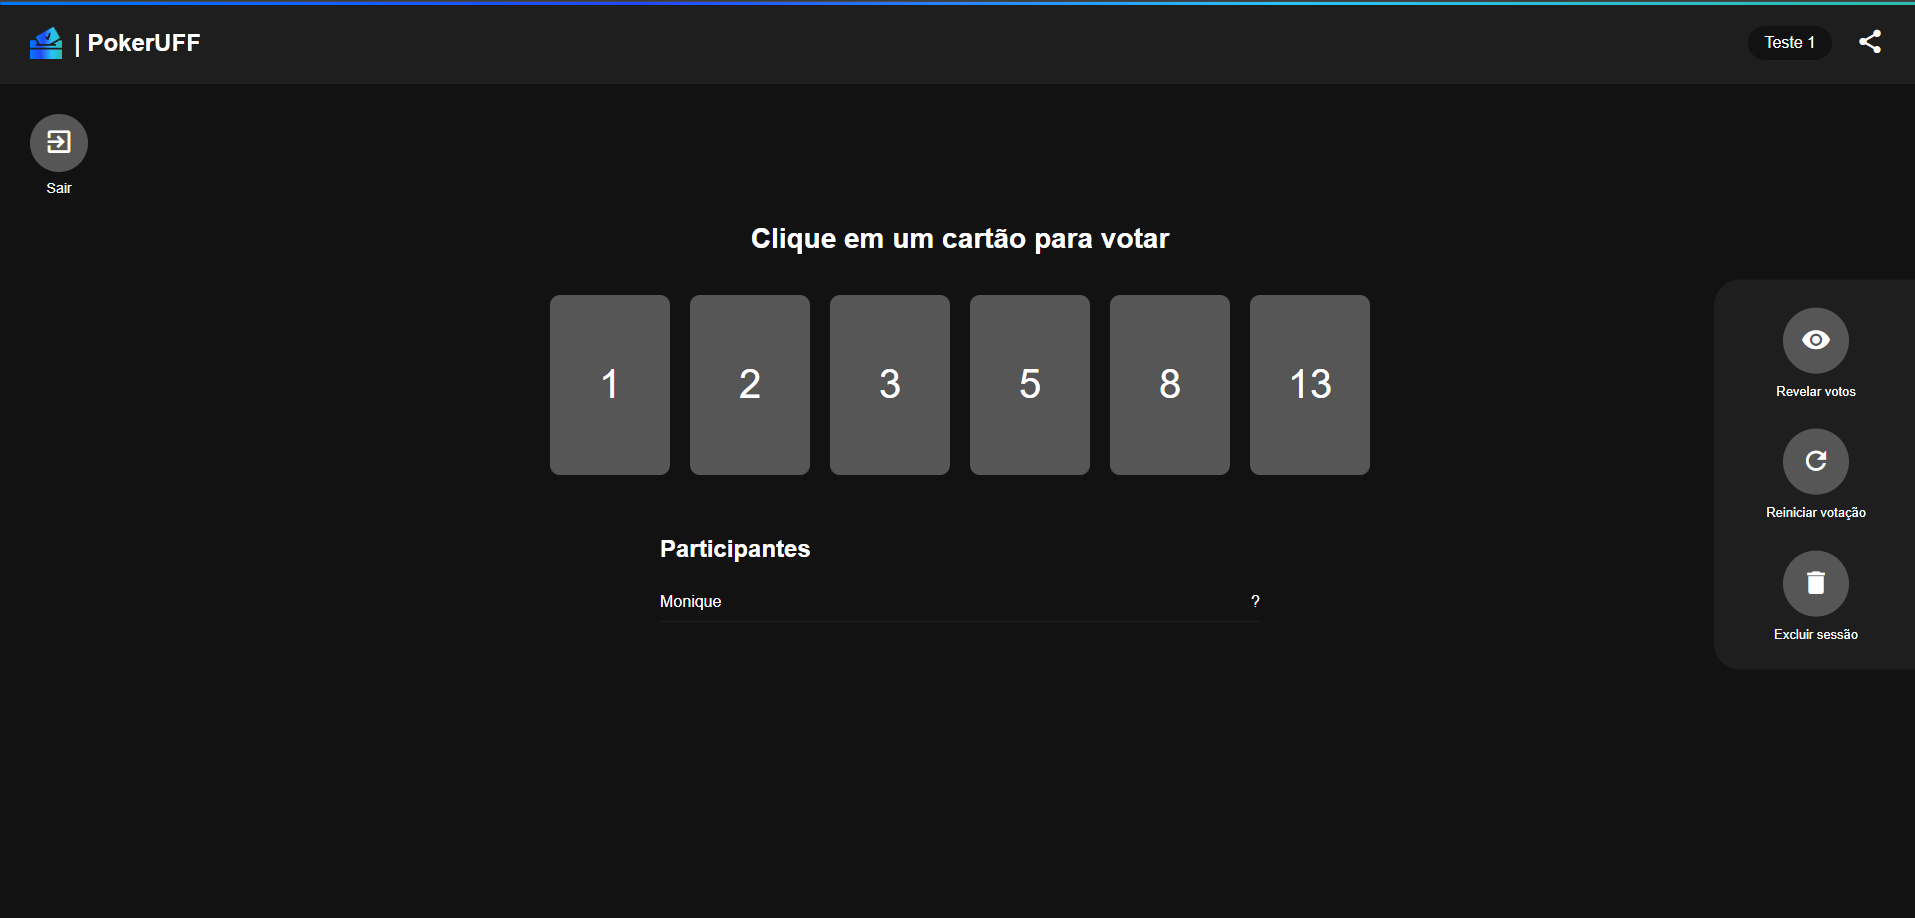
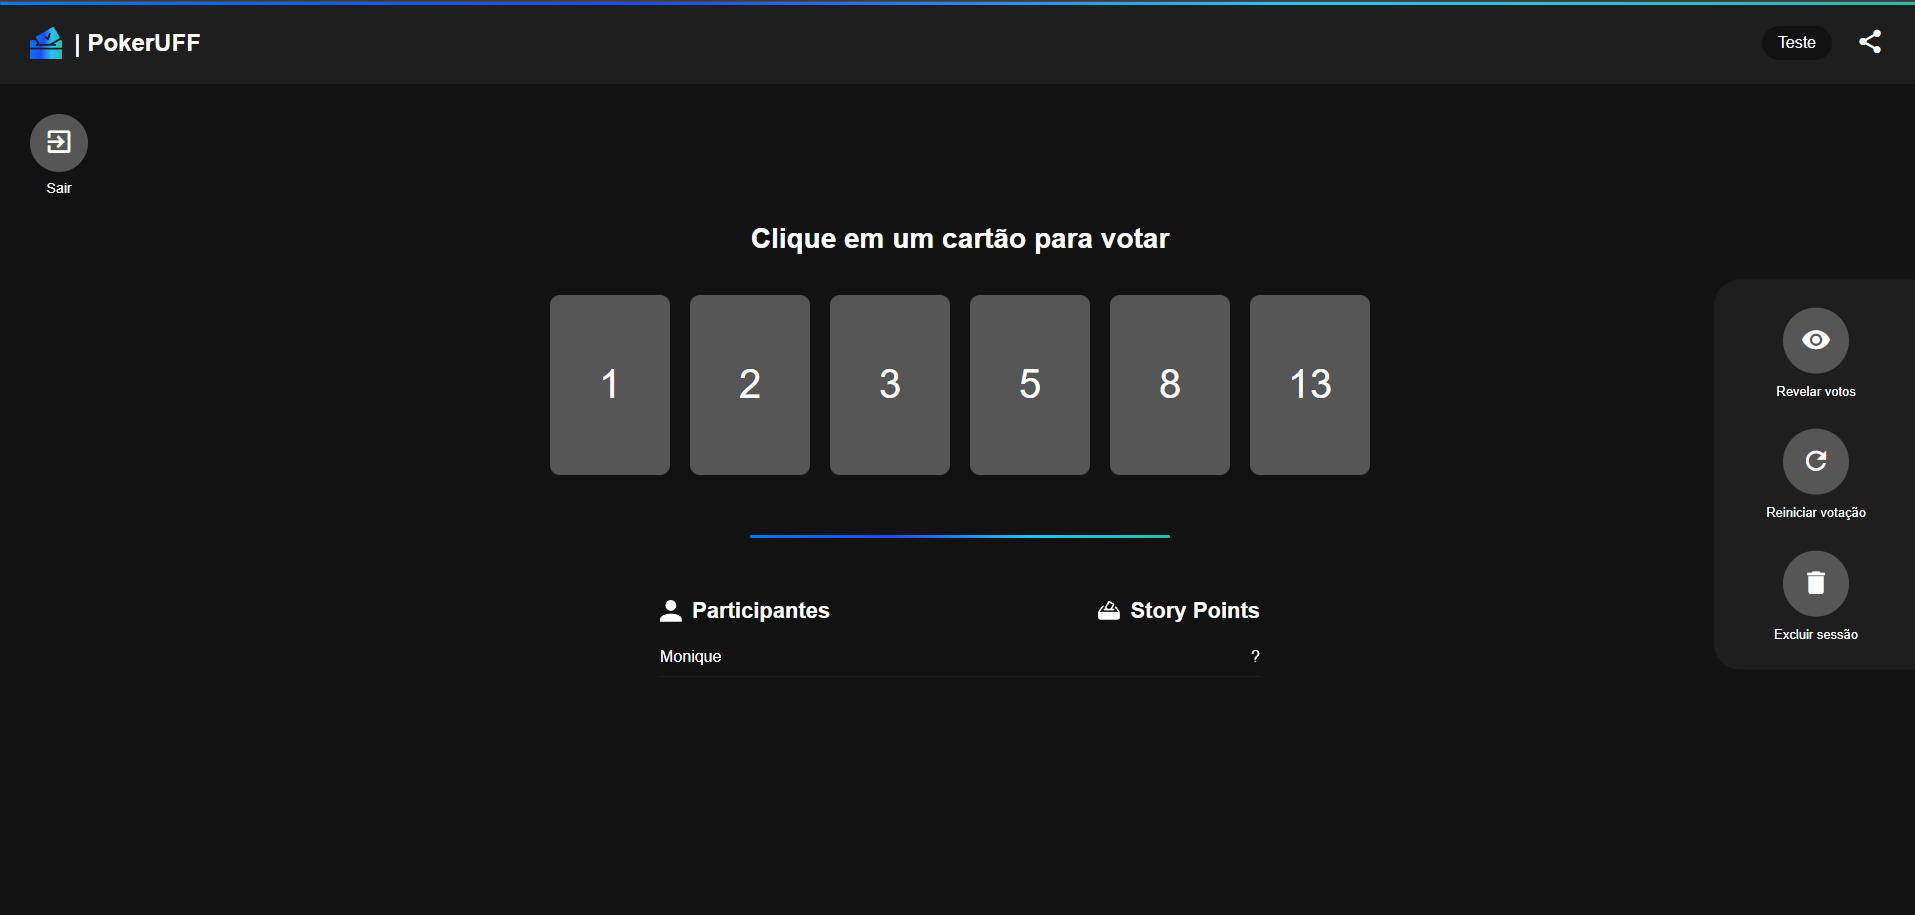
feat: melhorias ux

diff --git a/frontend/vue-project/src/views/SessionView.vue b/frontend/vue-project/src/views/SessionView.vue
@@ -58,20 +58,64 @@
           Sair
         </span>
       </div>
-      <h1 class="title">Clique em um cartão para votar</h1>
-      <div class="cards">
+      <h1
+        v-if="!state.revealed"
+        class="title"
+      >
+        Clique em um cartão para votar
+      </h1>
+      <div
+        v-if="!state.revealed"
+        class="cards"
+      >
         <div
           v-for="value in cards"
           :key="value"
           class="card"
+          :class="{ 'card-selected': selectedCard === value }"
           @click="vote(value)"
         >
           {{ value }}
         </div>
       </div>
 
+      <div
+        v-else
+        class="results-panel"
+      >
+        <h1 class="results-title">Resultado da votação</h1>
+        <div class="results-stats">
+          <img
+            src="@/assets/img/logo-white.svg"
+            alt=""
+            class="results-icon"
+          />
+          Média: {{ voteAverage }}  •  Mediana: {{ voteMedian }}
+        </div>
+      </div>
+
+      <Divider class="content-divider" />
+
       <div class="participants">
-        <h2>Participantes</h2>
+        <div class="section-header">
+          <h2 class="section-title">
+            <img
+              src="@/assets/img/user-icon.svg"
+              alt=""
+              class="section-icon"
+            />
+            Participantes
+          </h2>
+
+          <h2 class="section-title story-points-title">
+            <img
+              src="@/assets/img/story-point-icon.svg"
+              alt=""
+              class="section-icon"
+            />
+            Story Points
+          </h2>
+        </div>
         <div
           v-for="p in state.participants"
           :key="p"
@@ -100,7 +144,7 @@
 </template>
 
 <script setup>
-import { ref, onMounted, onUnmounted } from 'vue'
+import { ref, computed, onMounted, onUnmounted } from 'vue'
 import { useRoute, useRouter } from 'vue-router'
 import Divider from '@/components/Divider.vue'
 import SessionCodeModal from '@/components/SessionCodeModal.vue'
@@ -126,11 +170,48 @@ const sessionName = ref('Sessão')
 const isAdmin = ref(false)
 
 const cards = [1, 2, 3, 5, 8, 13]
+const selectedCard = ref(null)
 
 const showCodeModal = ref(false)
 const sessionCode = ref('')
 const showUserNameModal = ref(false)
 const copied = ref(false)
+
+function getVoteValues() {
+  return Object.values(state.value.votes ?? {})
+    .filter((value) => typeof value === 'number')
+}
+
+function formatNumber(value) {
+  return Number.isInteger(value)
+    ? String(value)
+    : value.toFixed(1).replace('.', ',')
+}
+
+function calculateAverage(values) {
+  if (!values.length) return '-'
+
+  const total = values.reduce((sum, value) => sum + value, 0)
+  return formatNumber(total / values.length)
+}
+
+function calculateMedian(values) {
+  if (!values.length) return '-'
+
+  const sortedValues = [...values].sort((a, b) => a - b)
+  const middleIndex = Math.floor(sortedValues.length / 2)
+
+  if (sortedValues.length % 2 === 1) {
+    return formatNumber(sortedValues[middleIndex])
+  }
+
+  return formatNumber(
+    (sortedValues[middleIndex - 1] + sortedValues[middleIndex]) / 2
+  )
+}
+
+const voteAverage = computed(() => calculateAverage(getVoteValues()))
+const voteMedian = computed(() => calculateMedian(getVoteValues()))
 
 async function copyCode() {
   await navigator.clipboard.writeText(SESSION_CODE)
@@ -157,6 +238,10 @@ function connect() {
 
       sessionName.value = msg.data.name
       isAdmin.value = username.value === msg.data.admin
+
+      if (!msg.data.revealed && Object.keys(msg.data.votes ?? {}).length === 0) {
+        selectedCard.value = null
+      }
     }
   }
 
@@ -206,6 +291,8 @@ async function setUsername(name) {
 
 function vote(value) {
   if (!ws.value) return
+
+  selectedCard.value = value
 
   ws.value.send(JSON.stringify({
     type: 'vote',
@@ -270,7 +357,10 @@ async function resetVotes() {
 
   if (!res.ok) {
     alert('Não foi possível reiniciar a votação')
+    return
   }
+
+  selectedCard.value = null
 }
 
 async function deleteSession() {
@@ -454,6 +544,69 @@ onUnmounted(() => {
   margin-bottom: 40px;
 }
 
+.results-panel {
+  max-width: 600px;
+  margin: 0 auto 60px;
+  text-align: center;
+}
+
+.results-title {
+  font-size: 28px;
+  margin-bottom: 18px;
+}
+
+.results-stats {
+  background: #1E1E1E;
+  border-radius: 18px;
+  padding: 18px 24px;
+  font-size: 18px;
+  line-height: 1.4;
+  display: flex;
+  align-items: center;
+  justify-content: center;
+  gap: 12px;
+}
+
+.content-divider {
+  width: min(420px, 45%);
+  margin: 60px auto 60px;
+}
+
+.results-icon {
+  width: 22px;
+  height: 22px;
+  object-fit: contain;
+  flex-shrink: 0;
+}
+
+.section-header {
+  display: flex;
+  align-items: center;
+  justify-content: space-between;
+  gap: 20px;
+  margin-bottom: 14px;
+}
+
+.section-title {
+  display: flex;
+  align-items: center;
+  gap: 10px;
+  margin: 0;
+  font-size: 22px;
+}
+
+.story-points-title {
+  min-width: 160px;
+  justify-content: flex-end;
+}
+
+.section-icon {
+  width: 22px;
+  height: 22px;
+  object-fit: contain;
+  flex-shrink: 0;
+}
+
 .cards {
   display: flex;
   justify-content: center;
@@ -472,6 +625,12 @@ onUnmounted(() => {
   font-size: 40px;
   cursor: pointer;
   transition: 0.2s;
+}
+
+.card-selected {
+  outline: 1px solid #ffffff;
+  background: #858585;
+  transform: scale(1.08);
 }
 
 .card:hover {